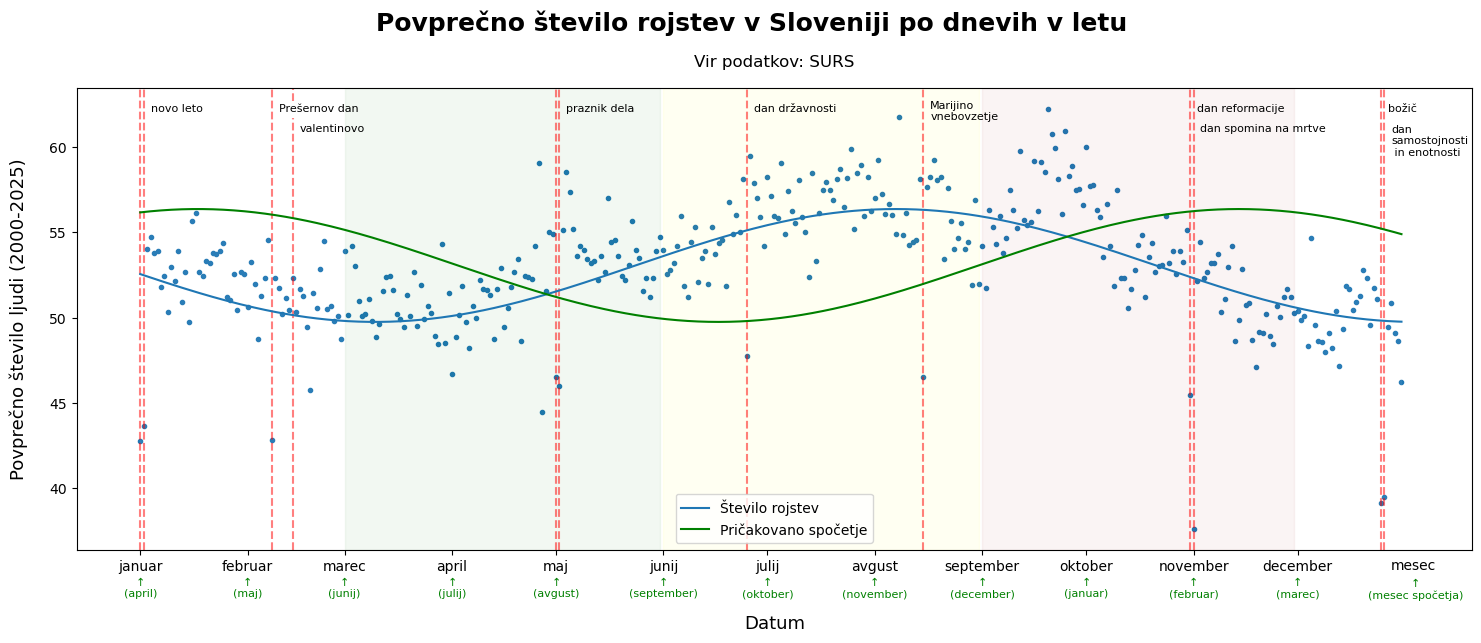
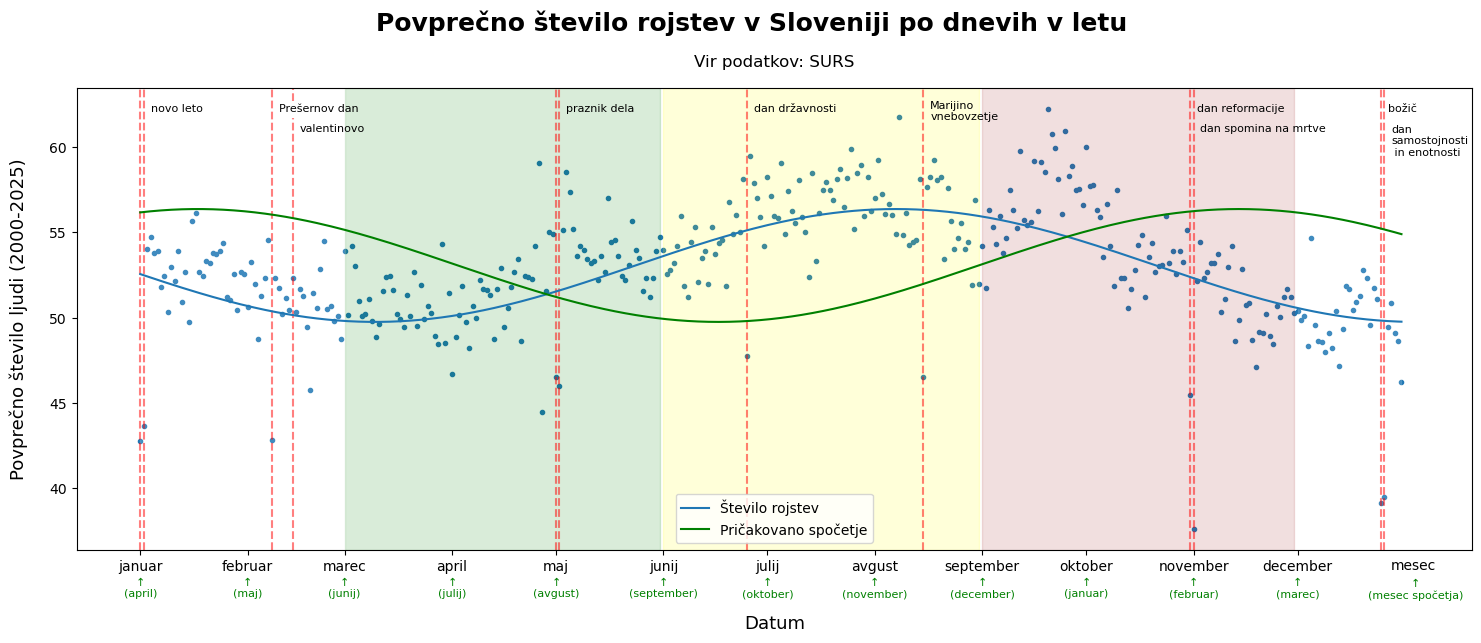
update blogpost

Changed region(s): [[0.2174, 0.1244, 0.6833, 0.8709]]

diff --git a/_posts/2026-11-07-graf-rojstev.md b/_posts/2026-11-07-graf-rojstev.md
@@ -62,8 +62,8 @@ Sedaj lahko vidimo, da je večino rojstev med avgustom in septembrom. To si najl
 
 Zanimiva so odstopanja od trenda. Še posebej spodnji osamelci. Večino spodnjih osamelcev lahko razložimo z dorisanimi prazniki.
 
-<a href="../images/graf-rojstev-imgs/img_5.png" class="glightbox">
-  <img src="../images/graf-rojstev-imgs/img_5.png"
+<a href="../images/graf-rojstev-imgs/img_5r.png" class="glightbox">
+  <img src="../images/graf-rojstev-imgs/img_5r.png"
        alt="Graf rojstev"
        style="max-width: 100%;">
 </a>
@@ -87,6 +87,16 @@ porazdeljujejo normalno.
        style="max-width: 100%;">
 </a>
 
+Hribčki so še vedno prisotni. Med njimi najbolj izstopa septemberski. Zdi se mi, da so preostali hribčki razloženi s prazniki, septembrski pa s prazničnim decemberskim vzdušjem.
+
+Na koncu sem se odločil ohraniti peti graf. Sem mu dodal še barvanje po letnih časih.
+
+<a href="../images/graf-rojstev-imgs/img_5.png" class="glightbox">
+  <img src="../images/graf-rojstev-imgs/img_5.png"
+       alt="Graf rojstev"
+       style="max-width: 100%;">
+</a>
+
 ## Zaključek
 
-S tem zaključimo zgodbo o tem grafu. Seveda, je še mnogo zanivih smeri, ki bi jih lahko ubrali (primerjava med leti, dnevi v tednu, uporaba verjetnostnega programiranja, itd.). Upam, da je bila tako zanimiva za branje, kot je bilo meni pri risanju grafa.
+S tem zaključimo zgodbo o tem grafu. Seveda, je še mnogo zanimivih smeri, ki bi jih lahko ubrali (primerjava med leti, dnevi v tednu, uporaba verjetnostnega programiranja, itd.). Upam, da je bila tako zanimiva za branje, kot je bilo meni pri risanju grafa.
